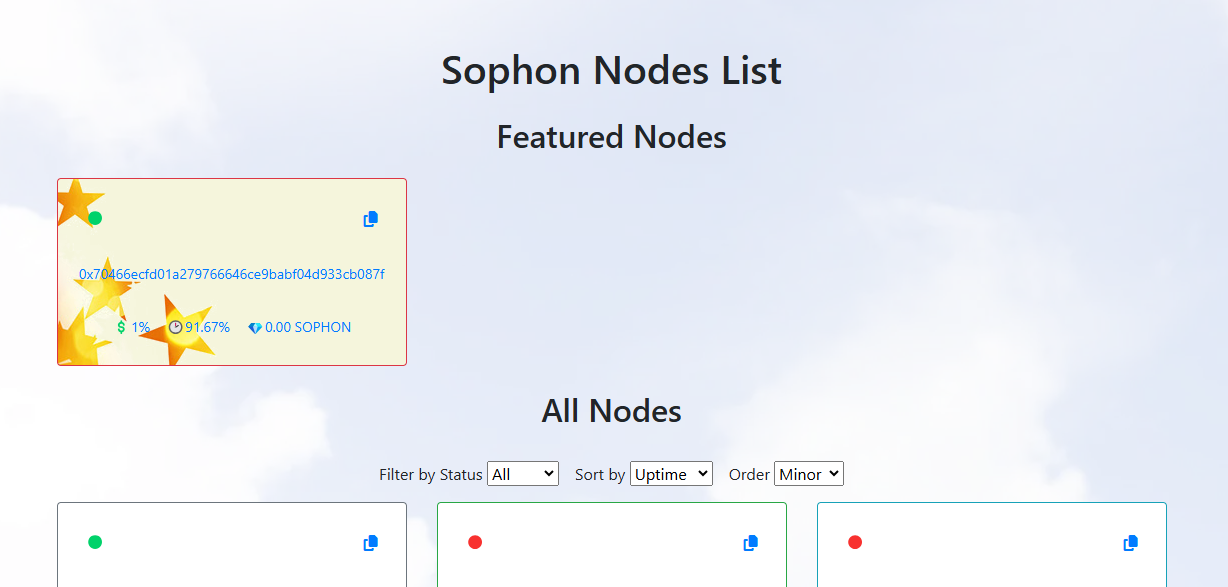
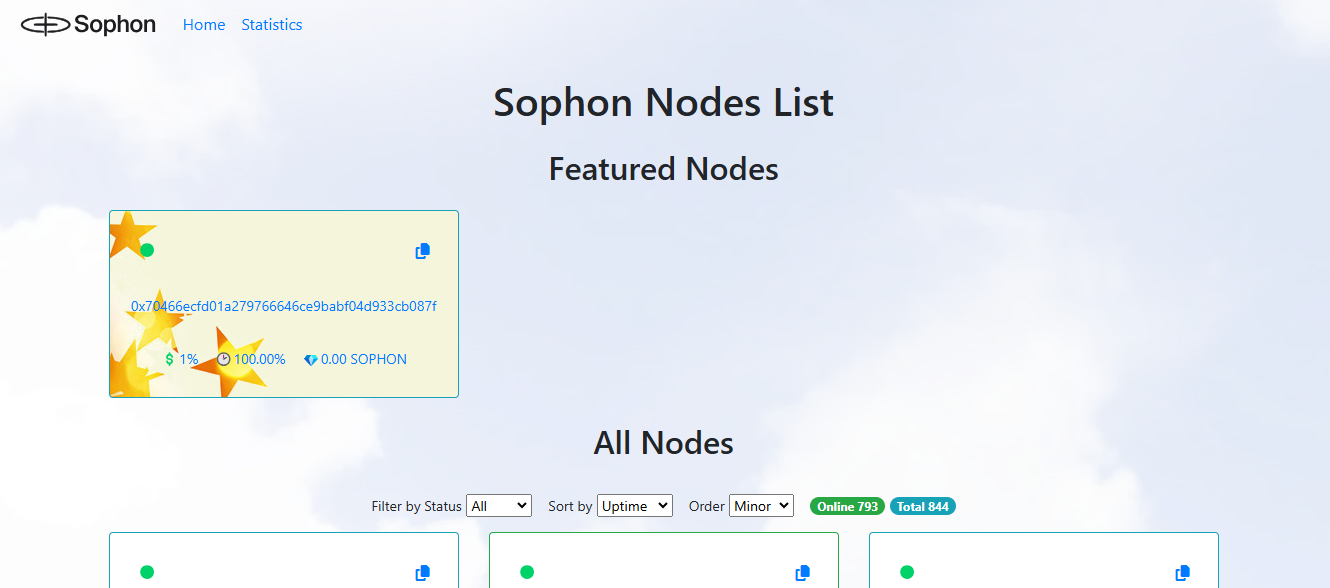
Added counters and future stats page.

diff --git a/views/statistics.html b/views/statistics.html
@@ -12,7 +12,7 @@
       <meta property="og:type" content="website" />
 
       <meta name="viewport" content="width=device-width, initial-scale=1, shrink-to-fit=no">
-      <title>Sophon Nodes List - Home</title>
+      <title>Sophon Nodes List - Statistics</title>
       <link rel="stylesheet" href="https://cdn.jsdelivr.net/npm/bootstrap@4.6.2/dist/css/bootstrap.min.css" crossorigin="anonymous">
       <script src="https://code.jquery.com/jquery-3.6.0.min.js"></script>      
       <link rel="stylesheet" href="https://fonts.googleapis.com/css?family=Roboto:500&display=swap">
@@ -33,12 +33,9 @@
             function renderNodes(data) {
                 let nodesContainer = $("#nodes-container");
 				let featuredNodesContainer = $("#nodes-featured");
-				let nodesBasicStatus = $("#basic-count");
                 nodesContainer.empty();
-				nodesBasicStatus.empty();
 				featuredNodesContainer.empty();
 				let icounter = 0;
-				let nodesOnline = 0;
 
                 if (data.length > 0) {
                     data.forEach(node => {
@@ -74,9 +71,6 @@
 									
 								</a><input type="text" value="${node.operator}" id="op-${icounter}" style="display: none;"/>`
 							);
-							if(node.status == true){
-								nodesOnline++
-							}
 						}else{
 							nodesContainer.append(
                             `<a href="javascript:void(0);" class="col-md-4 mb-4" style="text-decoration:none" onclick="copyOperator('op-${icounter}');">
@@ -105,13 +99,6 @@
 										</div>
 									
 								</a><input type="text" value="${node.operator}" id="op-${icounter}" style="display: none;"/>`
-							);
-							if(node.status == true){
-								nodesOnline++
-							}
-							nodesBasicStatus.empty();
-							nodesBasicStatus.append(
-							`<span class="badge badge-pill badge-success">Online ${nodesOnline}</span> <span class="badge badge-pill badge-info">Total ${icounter+1}</span>`
 							);
 						}
 						icounter++;
@@ -197,10 +184,10 @@
 				<div class="collapse navbar-collapse" id="navbarNav">
 					<ul class="navbar-nav">
 						<li class="nav-item">
-							<a class="nav-link active" aria-current="page" href="/">Home</a>
+							<a class="nav-link" aria-current="page" href="/">Home</a>
 						</li>
 						<li class="nav-item">
-							<a class="nav-link" href="statistics">Statistics</a>
+							<a class="nav-link active" href="statistics">Statistics</a>
 						</li>
 					</ul>
 				</div>
@@ -208,58 +195,8 @@
 		</nav>
     <div class="container mt-4">
 
-        <h1 class="text-center mb-4">Sophon Nodes List</h1>
+        <h1 class="d-flex justify-content-center">Soon...</h1>		
 		
-		<h2 class="text-center mb-4">Featured Nodes</h2>
-		<div id="nodes-featured" class="row">
-			<div class="col-md-12">
-				<div class="d-flex justify-content-center">
-					<div class="p-2">
-						<img src="/images/Bean-Eater@1x-1.0s-200px-200px.svg" height="150px" />
-					</div>
-				</div>	
-			</div>			
-        </div>
-		
-		<h2 class="text-center mb-4">All Nodes</h2>
-		<!-- Filters and Orders -->
-        <div class="d-flex justify-content-center">
-            <div class="p-2">
-                <label for="filterStatus" class="form-label small">Filter by Status</label>
-                <select id="filterStatus" class="form-select small">
-                    <option value="all">All</option>
-                    <option value="true">Online</option>
-                    <option value="false">Offline</option>
-                </select>
-            </div>
-            <div class="p-2">
-                <label for="sortCriteria" class="form-label small">Sort by</label>
-                <select id="sortCriteria" class="form-select small">
-                    <option value="uptime">Uptime</option>
-                    <option value="rewards">Rewards</option>
-                    <option value="fee">Fee</option>
-                </select>
-            </div>
-            <div class="p-2">
-                <label for="sortOrder" class="form-label small">Order</label>
-                <select id="sortOrder" class="form-select small">
-                    <option value="asc">Minor</option>
-                    <option value="desc">Bigger</option>
-                </select>
-            </div>
-			<div class="p-2" id="basic-count"></div>
-        </div>
-		
-        <div id="nodes-container" class="row">
-            <!-- List of nodes show here -->
-			<div class="col-md-12">
-				<div class="d-flex justify-content-center">
-					<div class="p-2">
-						<img src="/images/Bean-Eater@1x-1.0s-200px-200px.svg" height="150px" />
-					</div>
-				</div>	
-			</div>	
-        </div>
     </div>
 	<div class="container mt-5">
     <div class="col-md-12 mb-12" style="text-align: center;">

diff --git a/routes/index.js b/routes/index.js
@@ -7,4 +7,8 @@ router.get('/', (req, res) => {
   res.sendFile(path.join(__dirname, '../views/index.html'));
 });
 
+router.get('/statistics', (req, res) => {
+  res.sendFile(path.join(__dirname, '../views/statistics.html'));
+});
+
 module.exports = router;
